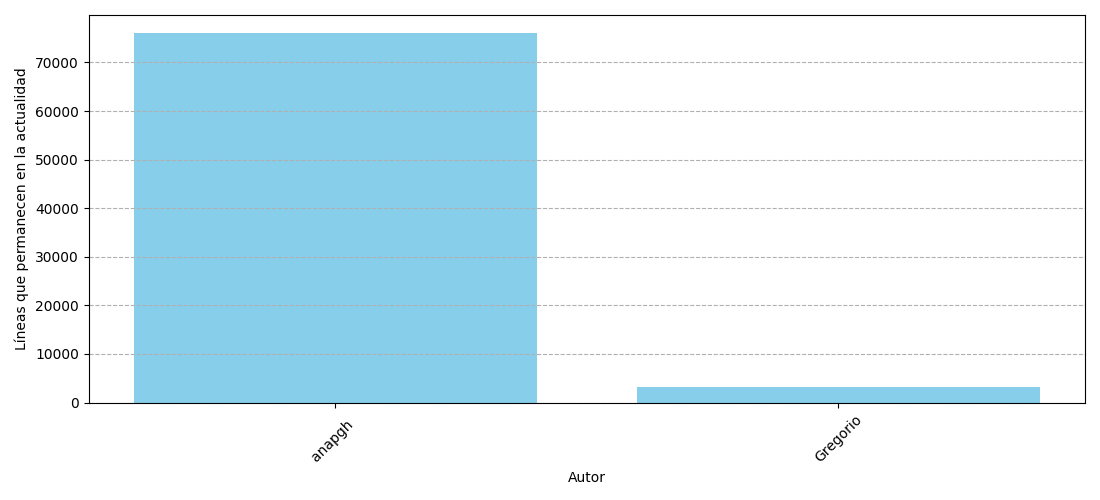
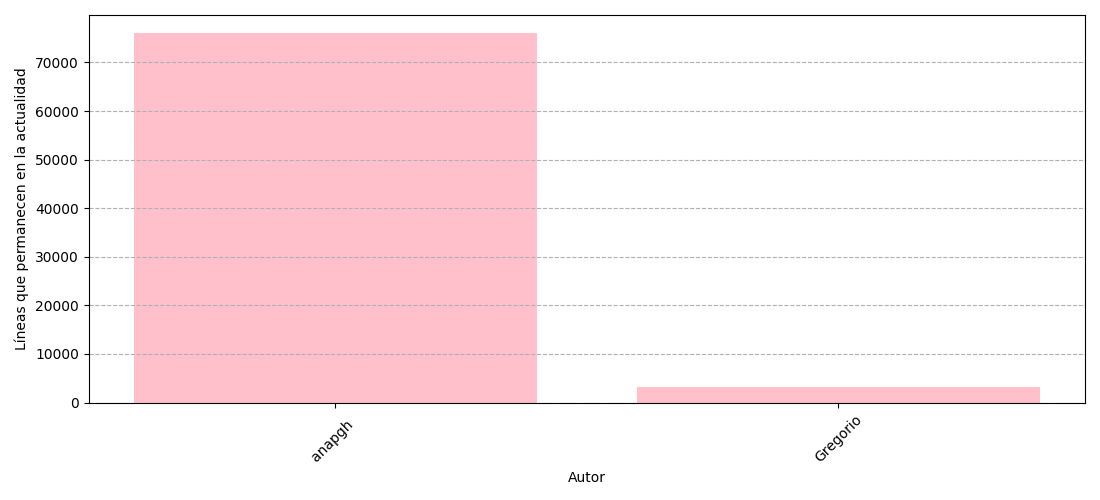
Gráfica de evolución durante los primeros 5 años del proyecto, duda 'GitHub'

Changed region(s): [[0.1236, 0.06, 0.4945, 0.81], [0.5564, 0.75, 0.9582, 0.81]]

diff --git a/index.html b/index.html
@@ -15,8 +15,10 @@
     <ul>
         <li><b>Análisis de lenguajes utilizados en el repositorio</b></li>
             <img class="graphs" src="Language_graph.png" alt="Language_graph">
-        <li><b>Contribuciones por autor</b></li>
+        <li><b>Contribuciones totales por autor</b></li>
             <img class="graphs" src="CurrentLines_graph.png" alt="CurrentLines_graph">
+        <li><b>Contribuciones por autor durante los primeros 5 años del proyecto</b></li>
+            <img class="graphs" src="First5YearsEvolution_graph.png" alt="First5YearsEvolution_graph">
     </ul>
 </div>
 
@@ -24,7 +26,7 @@
     <ul>
         <li><b>Análisis de actividad de cada fichero</b></li>
             <img class="graphs" src="Commits_graph.png" alt="Commits_graph">
-        <li><b>Tasa de Churn</b></li>
+        <li><b>Tasa de Churn de cada fichero</b></li>
             <img class="graphs" src="ChurnRate_graph.png" alt="ChurnRate_graph">
     </ul>
 </div>

diff --git a/style.css b/style.css
@@ -1,13 +1,13 @@
 body {      /* Tipo y color de la fuente para toda la web. */
     background-color: rgb(246, 245, 206);
-    font-family: 'Gill Sans MT';
+    font-family: 'monospace';
     color: black;
 }
 
 h1 {        /* Título principal */
     font-weight: bolder;
     text-align: center;
-    background-color: rgb(185, 240, 249);
+    background-color: rgb(250, 243, 243);
     border: 3px solid black;
     border-radius: 10px;
     padding: 20px;      
@@ -32,8 +32,8 @@ b {     /* Aumento la fuente de los títulos de la lista */
 
 .graphs {        /* Clase imagenes. */
     margin-top: 13px;
-    width: 650px;
-    height: 430px;
+    width: 670px;
+    height: 470px;
     border: 2px solid black;
     border-radius: 5px;
 }

diff --git a/graphics_code.py b/graphics_code.py
@@ -1,7 +1,8 @@
 import pyodbc
 import matplotlib.pyplot as plt
 from collections import Counter
-
+from datetime import datetime
+from collections import defaultdict
 
 
 SERVER = 'LAPTOP-E26LIVT1\SQLEXPRESS'
@@ -23,6 +24,7 @@ def get_graphs():
 
     author_graph(cursor)
     churn_graph(cursor)
+    analysis_graph(cursor)
 
     print("Graphics created in '.png' files.")
 
@@ -30,7 +32,6 @@ def get_graphs():
     conn.close()
 
 
-# Grafica de lineas por autor
 def author_graph(cursor):
     cursor.execute(f"SELECT author_start, code FROM {TABLE} WHERE longevity='NULL'")
 
@@ -43,7 +44,6 @@ def author_graph(cursor):
     conteo = Counter(author)
     tuples_counter = tuple(conteo.items())
 
-    # Lista de autores [ana, greg, github]
     author_list = [item[0] for item in tuples_counter]
 
     len_lines = {value: 0 for value in author_list}
@@ -55,9 +55,8 @@ def author_graph(cursor):
             len_lines[atribute[0]] += 1
 
     for item, value  in len_lines.items():
-        # Fallo GitHub duda!
         if item != 'GitHub  ':
-            plt.bar(item, value, color='skyblue')
+            plt.bar(item, value, color='pink')
     plt.xlabel('Autor')
     plt.ylabel('Líneas que permanecen en la actualidad')
     plt.grid(axis='y', linestyle='--')
@@ -65,7 +64,7 @@ def author_graph(cursor):
     plt.tight_layout()
     plt.savefig('CurrentLines_graph.png')
 
-# Churn rate graph
+
 def churn_graph(cursor):
     cursor.execute(f"SELECT file_name, code FROM {TABLE} WHERE longevity='NULL'")
 
@@ -78,7 +77,6 @@ def churn_graph(cursor):
     conteo = Counter(files)
     tuples_counter = tuple(conteo.items())
 
-    # Lista de archivos
     files_list = [item[0] for item in tuples_counter]
 
     len_del_lines = {value: 0 for value in files_list}
@@ -105,7 +103,6 @@ def churn_graph(cursor):
 
     plt.figure(figsize=(11, 5))
     for item, value  in churn_rate.items():
-        # Fallo GitHub duda!
         if item != 'GitHub  ':
             plt.stem(item, value, linefmt='green')
     plt.xlabel('Archivos')
@@ -114,7 +111,61 @@ def churn_graph(cursor):
     plt.xticks(rotation=45)
     plt.tight_layout()
     plt.savefig('ChurnRate_graph.png')
- 
+
+
+def analysis_graph(cursor):
+    cursor.execute(f"SELECT date_start, author_start FROM {TABLE}")
+    
+    date = []
+    authors = []
+
+    for row in cursor:
+        date.append(row.date_start)
+        authors.append(row.author_start)
+    
+    authors = set(authors)
+    authors.remove('GitHub  ')
+
+    date.sort(key=lambda x: datetime.strptime(x, '%Y-%m-%d'))
+
+    # Year of creation of the project
+    year = datetime.strptime(date[0], '%Y-%m-%d').year
+    
+    lines_per_author_per_year = defaultdict(lambda: defaultdict(int))
+
+    # Initialise dictionary with values at 0
+    for y in range(year, year + 5):
+        for author in authors: 
+            lines_per_author_per_year[y][author] = 0
+
+    for y in range(year, year + 5):
+        cursor.execute(f"SELECT author_start, code FROM {TABLE} WHERE YEAR(date_start) = {y}")
+        for row in cursor:
+            author_start, code = row
+            code_lines = code.strip().split('\n')
+            lines_per_author_per_year[y][author_start] += len(code_lines)
+
+    plt.figure(figsize=(14, 8))
+    for year, inner_dict in lines_per_author_per_year.items():
+        years = list(lines_per_author_per_year.keys())
+        #print(f"YEARS_LIST: {years}")
+        for author, lines_per_year in inner_dict.items():
+            authors = list(inner_dict.keys())
+            #print(f"AUTHORS_LIST: {authors}")
+            #print(f"Year: {year}")
+            #print(f"Author: {author}")
+            authors = list(inner_dict.keys())
+            #print(f"Number of lines: {lines_per_year}")
+            plt.bar(year, lines_per_year, label=author)  
+
+    plt.xlabel('Año')
+    plt.ylabel('Número de líneas contribuidas')
+    plt.legend(title='Autores')  
+    plt.grid(axis='y', linestyle='--')
+    plt.tight_layout()
+    plt.xticks(rotation=45)
+    plt.savefig('First5YearsEvolution_graph.png')
+
 
 if __name__ == "__main__":
     get_graphs()

diff --git a/graphics_files.py b/graphics_files.py
@@ -65,14 +65,12 @@ def commits_graph(cursor):
     plt.figure(figsize=(11, 5))
     for atribute in tuples:
         plt.bar(str(atribute[0]), str(atribute[1]), color='skyblue')
-    #plt.title('Cantidad de commits por archivo')
     plt.xlabel('Archivo')
     plt.ylabel('Número de commits')
     plt.grid(axis='y', linestyle='--')
     plt.xticks(rotation=45)
     plt.tight_layout()
     plt.savefig('Commits_graph.png')
-    #plt.show()    
 
 
 if __name__ == "__main__":
